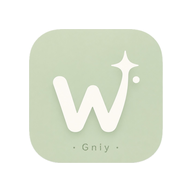
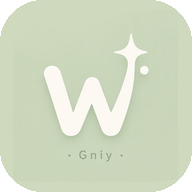
更换图标并全局调整配色为鼠尾草绿色系

diff --git a/index.html b/index.html
@@ -4,7 +4,7 @@
 <meta charset="UTF-8" />
 <meta name="viewport" content="width=device-width, initial-scale=1.0, maximum-scale=1.0" />
 <title>WordSpark · 英语表达学习</title>
-<meta name="theme-color" content="#2d7a4a" />
+<meta name="theme-color" content="#7a936a" />
 <meta name="apple-mobile-web-app-capable" content="yes" />
 <meta name="apple-mobile-web-app-status-bar-style" content="black-translucent" />
 <meta name="apple-mobile-web-app-title" content="WordSpark" />
@@ -15,111 +15,111 @@
 <link href="https://fonts.googleapis.com/css2?family=Playfair+Display:wght@700;800&family=Nunito:wght@400;600;700;800&display=swap" rel="stylesheet" />
 <style>
   *, *::before, *::after { box-sizing: border-box; margin: 0; padding: 0; -webkit-tap-highlight-color: transparent; }
-  body { font-family: 'Nunito', 'Helvetica Neue', sans-serif; background: #e8f5ec; min-height: 100vh; display: flex; justify-content: center; }
-  #app { width: 100%; max-width: 430px; background: #f4fbf6; min-height: 100vh; position: relative; }
+  body { font-family: 'Nunito', 'Helvetica Neue', sans-serif; background: #e8ecd8; min-height: 100vh; display: flex; justify-content: center; }
+  #app { width: 100%; max-width: 430px; background: #f6f8ef; min-height: 100vh; position: relative; }
   ::-webkit-scrollbar { width: 0; }
   input, textarea, button { font-family: inherit; }
-  input:focus, textarea:focus { border-color: #2d7a4a !important; box-shadow: 0 0 0 3px rgba(45,122,74,0.12) !important; outline: none; }
+  input:focus, textarea:focus { border-color: #7a936a !important; box-shadow: 0 0 0 3px rgba(122,147,106,0.12) !important; outline: none; }
 
   /* Header */
-  .header { background: linear-gradient(135deg, #1a5c34, #2d7a4a); padding: 20px 22px 18px; display: flex; align-items: center; gap: 12px; position: sticky; top: 0; z-index: 10; }
+  .header { background: linear-gradient(135deg, #5e7550, #7a936a); padding: 20px 22px 18px; display: flex; align-items: center; gap: 12px; position: sticky; top: 0; z-index: 10; }
   .header-icon { width: 36px; height: 36px; border-radius: 10px; background: rgba(255,255,255,0.2); display: flex; align-items: center; justify-content: center; flex-shrink: 0; }
   .header-title { color: #fff; font-weight: 800; font-size: 17px; font-family: 'Playfair Display', Georgia, serif; }
   .header-sub { color: rgba(255,255,255,0.6); font-size: 11px; margin-top: 2px; }
 
   /* Bottom nav */
-  .bottom-nav { position: fixed; bottom: 0; left: 50%; transform: translateX(-50%); width: 100%; max-width: 430px; background: #fff; border-top: 1.5px solid #e8f5ec; display: flex; padding: 8px 0; z-index: 100; }
-  .nav-btn { flex: 1; display: flex; flex-direction: column; align-items: center; gap: 4px; background: none; border: none; cursor: pointer; padding: 6px 0; color: #aac4b2; transition: color .2s; position: relative; font-size: 11px; font-weight: 700; }
-  .nav-btn.active { color: #2d7a4a; }
+  .bottom-nav { position: fixed; bottom: 0; left: 50%; transform: translateX(-50%); width: 100%; max-width: 430px; background: #fff; border-top: 1.5px solid #e8ecd8; display: flex; padding: 8px 0; z-index: 100; }
+  .nav-btn { flex: 1; display: flex; flex-direction: column; align-items: center; gap: 4px; background: none; border: none; cursor: pointer; padding: 6px 0; color: #9aaa92; transition: color .2s; position: relative; font-size: 11px; font-weight: 700; }
+  .nav-btn.active { color: #7a936a; }
   .nav-badge { position: absolute; top: 2px; right: calc(50% - 18px); background: #e74c3c; color: #fff; border-radius: 99px; font-size: 10px; font-weight: 800; padding: 1px 5px; min-width: 16px; text-align: center; }
 
   /* Screens */
   .screen { padding: 0 20px 100px; display: none; }
   .screen.active { display: block; }
-  .screen-title { font-size: 26px; font-weight: 800; color: #0d2b1a; font-family: 'Playfair Display', Georgia, serif; }
-  .screen-sub { color: #6b8c75; font-size: 13px; margin-top: 6px; }
+  .screen-title { font-size: 26px; font-weight: 800; color: #3a4a2a; font-family: 'Playfair Display', Georgia, serif; }
+  .screen-sub { color: #7a8a6a; font-size: 13px; margin-top: 6px; }
 
   /* Form fields */
   .field { margin-bottom: 16px; }
-  .field label { display: block; font-size: 12px; font-weight: 700; color: #3a6b4a; margin-bottom: 6px; text-transform: uppercase; letter-spacing: 0.8px; }
-  .field input, .field textarea { width: 100%; padding: 12px 14px; border-radius: 12px; border: 2px solid #d4ead9; font-size: 14px; background: #f7fcf8; color: #1a3a24; transition: border-color .2s; }
+  .field label { display: block; font-size: 12px; font-weight: 700; color: #6a7a5a; margin-bottom: 6px; text-transform: uppercase; letter-spacing: 0.8px; }
+  .field input, .field textarea { width: 100%; padding: 12px 14px; border-radius: 12px; border: 2px solid #dce2cc; font-size: 14px; background: #f2f5e8; color: #3a4a2a; transition: border-color .2s; }
   .field textarea { resize: vertical; min-height: 76px; }
   .field-mono input { font-family: 'Courier New', monospace; font-size: 16px; font-weight: 700; }
 
   /* Tags */
-  .tag-chip { display: inline-flex; align-items: center; gap: 4px; background: #c8f0d8; color: #1a4a2a; border-radius: 99px; padding: 3px 11px; font-size: 12px; font-weight: 600; letter-spacing: 0.3px; border: 1.5px solid transparent; transition: all .15s; }
-  .tag-chip.removable { border-color: #2d7a4a; cursor: pointer; }
-  .tag-chip.suggested { background: #fff; color: #2d7a4a; border-color: #2d7a4a; cursor: pointer; }
-  .tag-chip.suggested.selected { background: #2d7a4a; color: #fff; }
+  .tag-chip { display: inline-flex; align-items: center; gap: 4px; background: #dbe3cb; color: #4a5a3a; border-radius: 99px; padding: 3px 11px; font-size: 12px; font-weight: 600; letter-spacing: 0.3px; border: 1.5px solid transparent; transition: all .15s; }
+  .tag-chip.removable { border-color: #7a936a; cursor: pointer; }
+  .tag-chip.suggested { background: #fff; color: #7a936a; border-color: #7a936a; cursor: pointer; }
+  .tag-chip.suggested.selected { background: #7a936a; color: #fff; }
 
   /* AI suggestion box */
-  .ai-box { background: linear-gradient(135deg, #f0faf4, #e8f5ec); border: 1.5px solid #c8e8d4; border-radius: 12px; padding: 10px 14px; margin-bottom: 10px; animation: fadeIn .3s; }
-  .ai-box-header { display: flex; align-items: center; gap: 6px; margin-bottom: 8px; font-size: 12px; color: #3a6b4a; font-weight: 700; }
+  .ai-box { background: linear-gradient(135deg, #f2f5e8, #e8ecd8); border: 1.5px solid #d5dcc5; border-radius: 12px; padding: 10px 14px; margin-bottom: 10px; animation: fadeIn .3s; }
+  .ai-box-header { display: flex; align-items: center; gap: 6px; margin-bottom: 8px; font-size: 12px; color: #6a7a5a; font-weight: 700; }
   .ai-chips { display: flex; gap: 7px; flex-wrap: wrap; }
 
   /* Save button */
-  .save-btn { width: 100%; padding: 15px; border-radius: 14px; border: none; background: linear-gradient(135deg, #2d7a4a, #1a5c34); color: #fff; font-size: 16px; font-weight: 800; cursor: pointer; transition: all .3s; display: flex; align-items: center; justify-content: center; gap: 8px; box-shadow: 0 4px 20px rgba(45,122,74,0.35); }
-  .save-btn.saved { background: #27ae60; }
+  .save-btn { width: 100%; padding: 15px; border-radius: 14px; border: none; background: linear-gradient(135deg, #7a936a, #5e7550); color: #fff; font-size: 16px; font-weight: 800; cursor: pointer; transition: all .3s; display: flex; align-items: center; justify-content: center; gap: 8px; box-shadow: 0 4px 20px rgba(122,147,106,0.35); }
+  .save-btn.saved { background: #7a936a; }
 
   /* Tag row */
   .tag-row { display: flex; gap: 7px; flex-wrap: wrap; margin-bottom: 10px; min-height: 0; }
   .custom-tag-row { display: flex; gap: 8px; }
-  .custom-tag-input { flex: 1; padding: 10px 14px; border-radius: 10px; border: 2px solid #d4ead9; font-size: 13px; background: #f7fcf8; color: #1a3a24; }
-  .add-tag-btn { padding: 10px 16px; border-radius: 10px; background: #2d7a4a; border: none; color: #fff; cursor: pointer; font-weight: 800; font-size: 16px; }
+  .custom-tag-input { flex: 1; padding: 10px 14px; border-radius: 10px; border: 2px solid #dce2cc; font-size: 13px; background: #f2f5e8; color: #3a4a2a; }
+  .add-tag-btn { padding: 10px 16px; border-radius: 10px; background: #7a936a; border: none; color: #fff; cursor: pointer; font-weight: 800; font-size: 16px; }
 
   /* Search */
   .search-wrap { position: relative; margin-bottom: 20px; }
-  .search-wrap .icon-pos { position: absolute; left: 12px; top: 50%; transform: translateY(-50%); color: #6b8c75; pointer-events: none; }
-  .search-input { width: 100%; padding: 11px 14px 11px 38px; border-radius: 12px; border: 2px solid #d4ead9; font-size: 14px; background: #f7fcf8; color: #1a3a24; }
+  .search-wrap .icon-pos { position: absolute; left: 12px; top: 50%; transform: translateY(-50%); color: #7a8a6a; pointer-events: none; }
+  .search-input { width: 100%; padding: 11px 14px 11px 38px; border-radius: 12px; border: 2px solid #dce2cc; font-size: 14px; background: #f2f5e8; color: #3a4a2a; }
 
   /* Card list */
-  .card { background: #fff; border-radius: 16px; padding: 16px 18px; box-shadow: 0 2px 12px rgba(0,0,0,0.06); border: 1.5px solid #e8f5ec; margin-bottom: 12px; }
-  .card-expr { font-size: 17px; font-weight: 800; color: #1a3a24; font-family: 'Playfair Display', Georgia, serif; flex: 1; }
-  .card-meaning { font-size: 14px; color: #3a6b4a; margin: 6px 0 4px; font-weight: 600; }
-  .card-example { font-size: 12px; color: #7a9e88; font-style: italic; margin-bottom: 8px; }
+  .card { background: #fff; border-radius: 16px; padding: 16px 18px; box-shadow: 0 2px 12px rgba(0,0,0,0.06); border: 1.5px solid #e8ecd8; margin-bottom: 12px; }
+  .card-expr { font-size: 17px; font-weight: 800; color: #3a4a2a; font-family: 'Playfair Display', Georgia, serif; flex: 1; }
+  .card-meaning { font-size: 14px; color: #6a7a5a; margin: 6px 0 4px; font-weight: 600; }
+  .card-example { font-size: 12px; color: #8a9a7a; font-style: italic; margin-bottom: 8px; }
   .card-footer { display: flex; gap: 6px; flex-wrap: wrap; align-items: center; }
-  .card-meta { margin-left: auto; font-size: 11px; color: #aac4b2; }
+  .card-meta { margin-left: auto; font-size: 11px; color: #9aaa92; }
   .card-header { display: flex; justify-content: space-between; align-items: flex-start; }
-  .delete-btn { background: none; border: none; cursor: pointer; color: #c0d4c8; padding: 4px; }
+  .delete-btn { background: none; border: none; cursor: pointer; color: #c5ceb8; padding: 4px; }
 
   /* Review */
-  .progress-bar { height: 5px; background: #e8f5ec; border-radius: 4px; margin-bottom: 24px; overflow: hidden; }
-  .progress-fill { height: 100%; background: linear-gradient(90deg, #2d7a4a, #4caf70); border-radius: 4px; transition: width .5s cubic-bezier(.4,0,.2,1); }
+  .progress-bar { height: 5px; background: #e8ecd8; border-radius: 4px; margin-bottom: 24px; overflow: hidden; }
+  .progress-fill { height: 100%; background: linear-gradient(90deg, #7a936a, #9aba8a); border-radius: 4px; transition: width .5s cubic-bezier(.4,0,.2,1); }
   .review-header { padding-top: 32px; padding-bottom: 16px; display: flex; justify-content: space-between; align-items: center; flex-wrap: wrap; gap: 10px; }
   .mode-btns { display: flex; gap: 6px; }
-  .mode-btn { padding: 6px 12px; border-radius: 99px; border: 2px solid #d4ead9; font-size: 11px; font-weight: 700; cursor: pointer; background: transparent; color: #6b8c75; transition: all .2s; }
-  .mode-btn.active { border-color: #2d7a4a; background: #2d7a4a; color: #fff; }
+  .mode-btn { padding: 6px 12px; border-radius: 99px; border: 2px solid #dce2cc; font-size: 11px; font-weight: 700; cursor: pointer; background: transparent; color: #7a8a6a; transition: all .2s; }
+  .mode-btn.active { border-color: #7a936a; background: #7a936a; color: #fff; }
 
-  .flip-card { background: linear-gradient(145deg, #f7fcf8, #edf8f0); border: 2px solid #c8e8d4; border-radius: 24px; padding: 36px 28px; text-align: center; min-height: 220px; display: flex; flex-direction: column; justify-content: center; align-items: center; gap: 12px; box-shadow: 0 8px 32px rgba(45,122,74,0.10); cursor: pointer; transition: all .3s; }
+  .flip-card { background: linear-gradient(145deg, #f2f5e8, #eff2e5); border: 2px solid #d5dcc5; border-radius: 24px; padding: 36px 28px; text-align: center; min-height: 220px; display: flex; flex-direction: column; justify-content: center; align-items: center; gap: 12px; box-shadow: 0 8px 32px rgba(122,147,106,0.10); cursor: pointer; transition: all .3s; }
   .flip-card.revealed { cursor: default; }
   .flip-card.flipping { opacity: 0; transform: scale(0.96); }
-  .card-label { font-size: 11px; font-weight: 700; text-transform: uppercase; letter-spacing: 1.5px; color: #aac4b2; }
-  .card-front { font-size: 26px; font-weight: 800; color: #0d2b1a; font-family: 'Playfair Display', Georgia, serif; line-height: 1.3; }
+  .card-label { font-size: 11px; font-weight: 700; text-transform: uppercase; letter-spacing: 1.5px; color: #9aaa92; }
+  .card-front { font-size: 26px; font-weight: 800; color: #3a4a2a; font-family: 'Playfair Display', Georgia, serif; line-height: 1.3; }
   .card-front.cn { font-size: 20px; font-family: inherit; }
-  .card-hint { font-size: 13px; color: #aac4b2; font-style: italic; margin-top: 8px; }
-  .card-back { margin-top: 16px; border-top: 1.5px solid #d4ead9; padding-top: 16px; width: 100%; animation: fadeIn .3s; }
-  .card-back-answer { font-size: 18px; font-weight: 700; color: #2d7a4a; }
+  .card-hint { font-size: 13px; color: #9aaa92; font-style: italic; margin-top: 8px; }
+  .card-back { margin-top: 16px; border-top: 1.5px solid #dce2cc; padding-top: 16px; width: 100%; animation: fadeIn .3s; }
+  .card-back-answer { font-size: 18px; font-weight: 700; color: #7a936a; }
   .card-back-answer.en { font-size: 22px; font-family: 'Playfair Display', Georgia, serif; }
-  .card-back-example { font-size: 13px; color: #7a9e88; font-style: italic; margin-top: 10px; }
+  .card-back-example { font-size: 13px; color: #8a9a7a; font-style: italic; margin-top: 10px; }
 
   .review-btns { display: flex; gap: 12px; margin-top: 20px; animation: fadeIn .3s; }
-  .btn-unknown { flex: 1; padding: 14px; border-radius: 14px; border: 2px solid #f0c8c8; background: #fff5f5; color: #c0392b; font-weight: 800; font-size: 15px; cursor: pointer; display: flex; align-items: center; justify-content: center; gap: 8px; font-family: inherit; }
-  .btn-known { flex: 1; padding: 14px; border-radius: 14px; border: none; background: linear-gradient(135deg, #2d7a4a, #1a5c34); color: #fff; font-weight: 800; font-size: 15px; cursor: pointer; display: flex; align-items: center; justify-content: center; gap: 8px; box-shadow: 0 4px 16px rgba(45,122,74,0.3); font-family: inherit; }
+  .btn-unknown { flex: 1; padding: 14px; border-radius: 14px; border: 2px solid #e8d0c8; background: #fdf7f5; color: #c0392b; font-weight: 800; font-size: 15px; cursor: pointer; display: flex; align-items: center; justify-content: center; gap: 8px; font-family: inherit; }
+  .btn-known { flex: 1; padding: 14px; border-radius: 14px; border: none; background: linear-gradient(135deg, #7a936a, #5e7550); color: #fff; font-weight: 800; font-size: 15px; cursor: pointer; display: flex; align-items: center; justify-content: center; gap: 8px; box-shadow: 0 4px 16px rgba(122,147,106,0.3); font-family: inherit; }
 
   /* Empty / Done states */
   .center-state { padding: 60px 30px; text-align: center; }
   .center-state .emoji { font-size: 64px; margin-bottom: 8px; }
-  .center-state h3 { font-size: 22px; color: #0d2b1a; font-family: 'Playfair Display', Georgia, serif; margin-bottom: 8px; }
-  .center-state p { color: #6b8c75; font-size: 14px; line-height: 1.6; }
+  .center-state h3 { font-size: 22px; color: #3a4a2a; font-family: 'Playfair Display', Georgia, serif; margin-bottom: 8px; }
+  .center-state p { color: #7a8a6a; font-size: 14px; line-height: 1.6; }
   .center-state .action-btns { display: flex; gap: 10px; margin-top: 24px; justify-content: center; flex-wrap: wrap; }
-  .btn-secondary { padding: 12px 20px; border-radius: 12px; background: #e8f5ec; border: none; color: #2d7a4a; font-weight: 800; cursor: pointer; font-size: 14px; font-family: inherit; }
-  .btn-primary { padding: 12px 20px; border-radius: 12px; background: linear-gradient(135deg, #2d7a4a, #1a5c34); border: none; color: #fff; font-weight: 800; cursor: pointer; font-size: 14px; display: inline-flex; align-items: center; gap: 6px; box-shadow: 0 4px 16px rgba(45,122,74,0.3); font-family: inherit; }
+  .btn-secondary { padding: 12px 20px; border-radius: 12px; background: #e8ecd8; border: none; color: #7a936a; font-weight: 800; cursor: pointer; font-size: 14px; font-family: inherit; }
+  .btn-primary { padding: 12px 20px; border-radius: 12px; background: linear-gradient(135deg, #7a936a, #5e7550); border: none; color: #fff; font-weight: 800; cursor: pointer; font-size: 14px; display: inline-flex; align-items: center; gap: 6px; box-shadow: 0 4px 16px rgba(122,147,106,0.3); font-family: inherit; }
 
   /* Animations */
   @keyframes fadeIn { from { opacity: 0; transform: translateY(8px); } to { opacity: 1; transform: none; } }
   @keyframes spin { to { transform: rotate(360deg); } }
   .spinning { animation: spin 1s linear infinite; display: inline-block; }
-  .empty-list { text-align: center; color: #aac4b2; padding: 40px; font-size: 15px; }
+  .empty-list { text-align: center; color: #9aaa92; padding: 40px; font-size: 15px; }
 </style>
 </head>
 <body>
